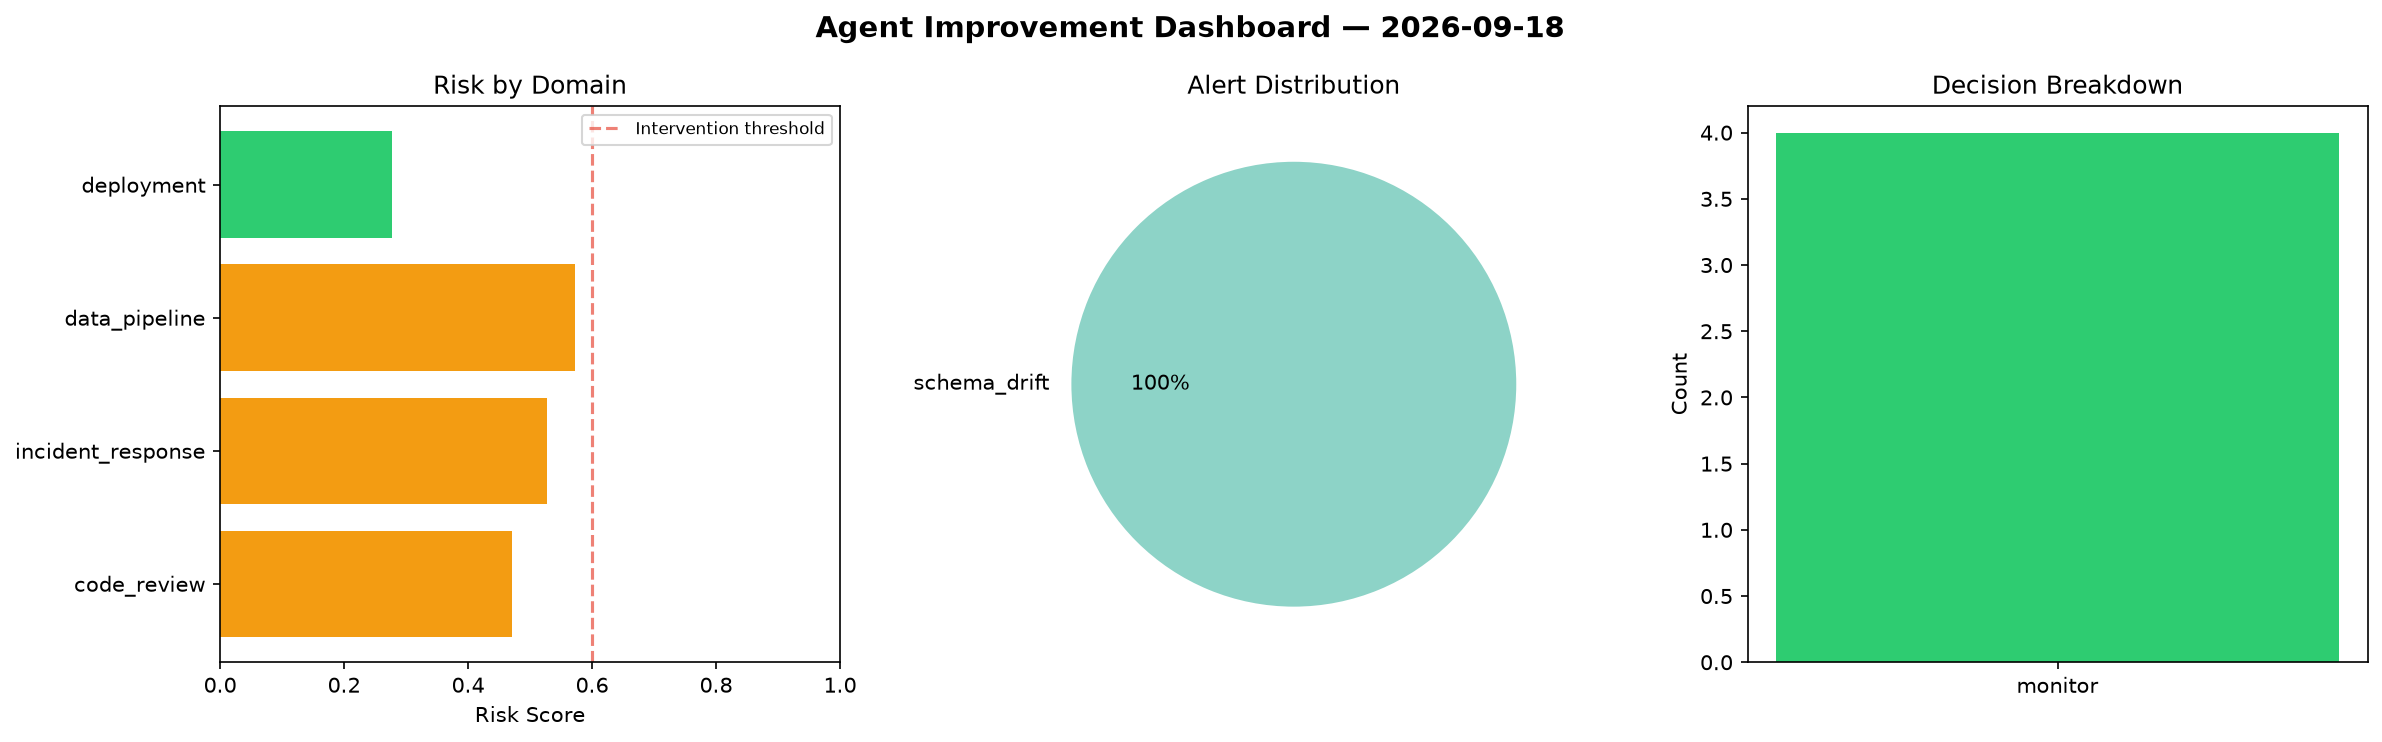
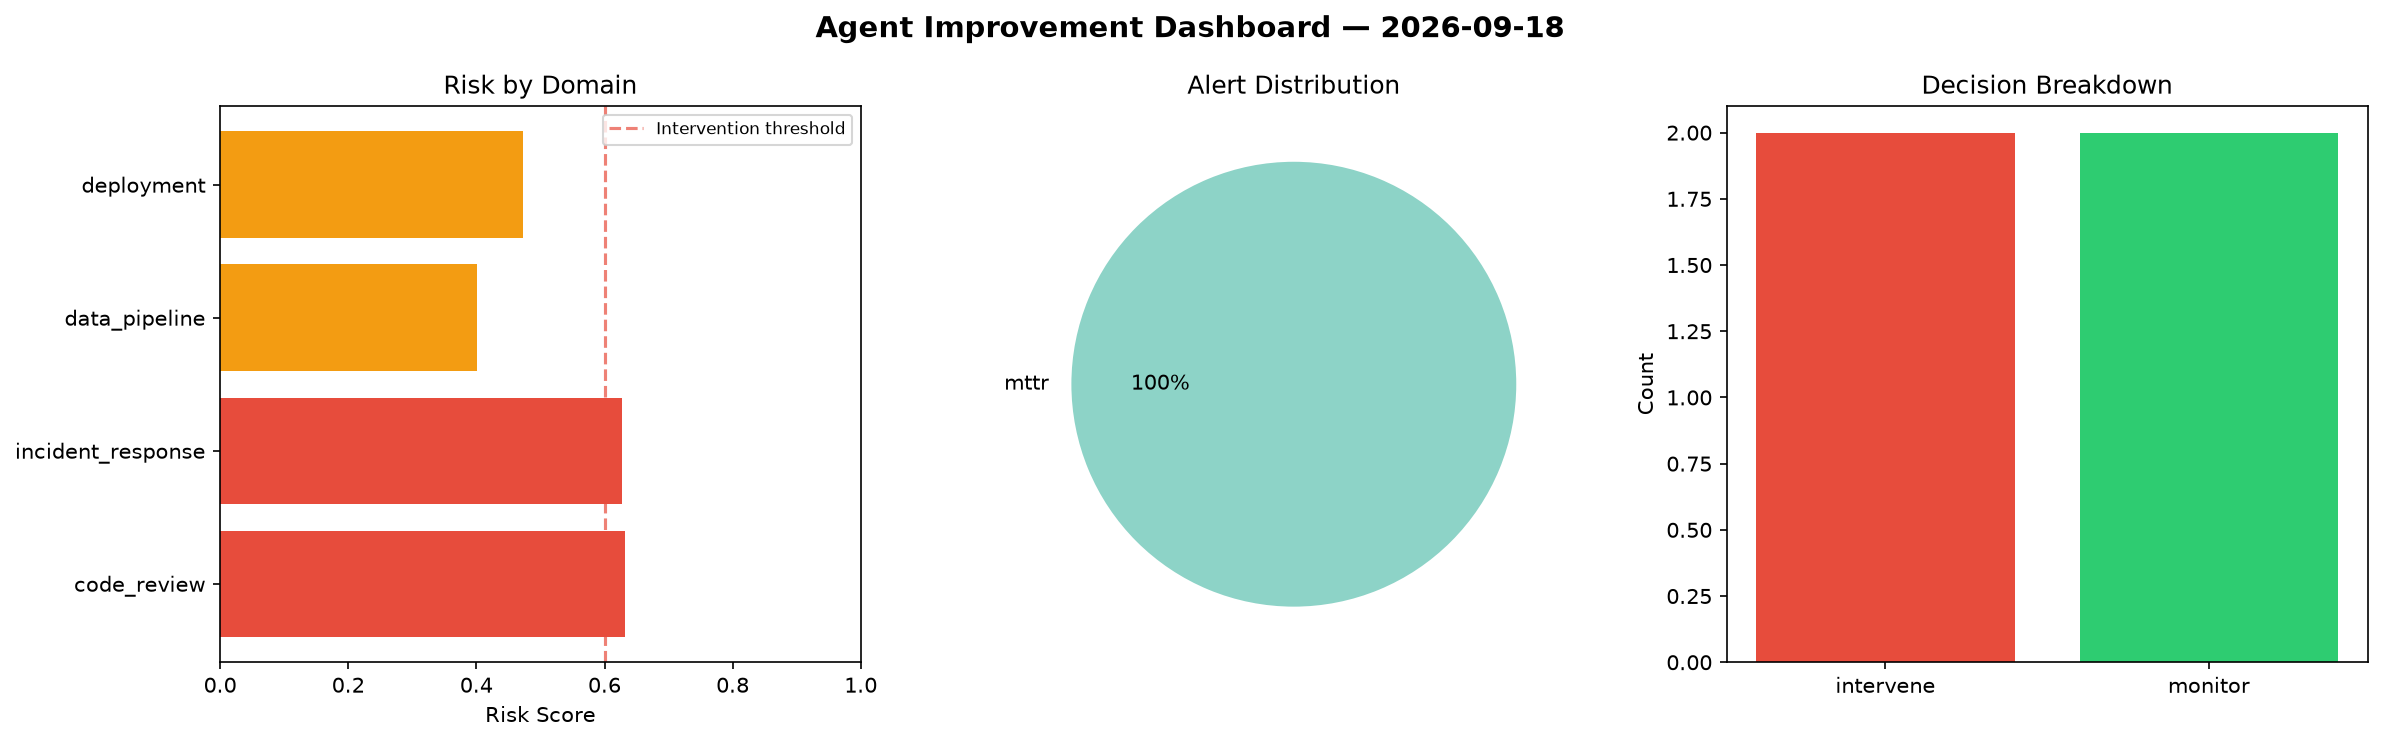
agent-improvement: daily cycle 2026-09-18T12:57

diff --git a/logs/2026-09-18.md b/logs/2026-09-18.md
@@ -1,6 +1,6 @@
 # Agent Improvement Report — 2026-09-18
 
-**Cycle ID:** `f7f1fe6a` | **Avg Risk:** 0.4624 | **Interventions:** 0/4
+**Cycle ID:** `b1d37d65` | **Avg Risk:** 0.5332 | **Interventions:** 2/4
 
 ![Dashboard](2026-09-18_dashboard.png)
 
@@ -10,18 +10,18 @@
 
 | Domain | Risk Score | Decision | Alerts |
 |--------|-----------|----------|--------|
-| code_review | 0.4707 | monitor | none |
-| incident_response | 0.5279 | monitor | none |
-| data_pipeline | 0.5732 | monitor | schema_drift |
-| deployment | 0.2779 | monitor | none |
+| code_review | 0.6317 | intervene | none |
+| incident_response | 0.6271 | intervene | mttr |
+| data_pipeline | 0.4009 | monitor | none |
+| deployment | 0.4729 | monitor | none |
 
 ## Delta vs Yesterday
 
 | Domain | Today | Yesterday | Change |
 |--------|-------|-----------|--------|
-| code_review | 0.4707 | 0.3541 | 📈 32.9% |
-| incident_response | 0.5279 | 0.3112 | 📈 69.6% |
-| data_pipeline | 0.5732 | 0.6949 | 📉 -17.5% |
-| deployment | 0.2779 | 0.6106 | 📉 -54.5% |
+| code_review | 0.6317 | 0.3541 | 📈 78.4% |
+| incident_response | 0.6271 | 0.3112 | 📈 101.5% |
+| data_pipeline | 0.4009 | 0.6949 | 📉 -42.3% |
+| deployment | 0.4729 | 0.6106 | 📉 -22.6% |
 
 **Refinement:** `{'adjustment': 'maintain', 'trend': 'improving', 'window': 4}`
